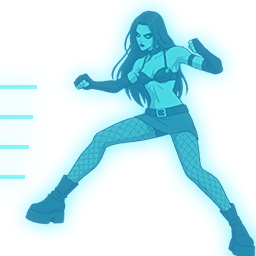
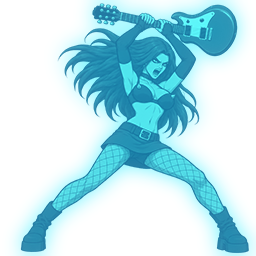
Sonso: nuevo dibujo mira a la derecha y espectrales regeneradas
- Se quita el ajuste "mira": "izquierda" (el dibujo nuevo mira a la derecha)
- Espectral y espectral de ataque regeneradas desde el arte nuevo
- El generador usa la pose de ataque del usuario para la espectral de ataque

Claude-Session: https://claude.ai/code/session_0146Z2twdAYFa7JBRbLJtDJs

diff --git a/tools/generar_placeholders.py b/tools/generar_placeholders.py
@@ -336,8 +336,13 @@ def main():
             # Arte final del usuario: las variantes provisionales salen de su dibujo
             normal = Image.open(ruta_normal).convert("RGBA").resize((256, 256), Image.LANCZOS)
         guardar(espectral(normal), "personajes", "pj_%s_espectral" % img_id)
-        pose = ataque(normal)
-        guardar(pose, "personajes", "pj_%s_normal_ataque" % img_id)
+        ruta_ataque = os.path.join(ASSETS, "personajes", "pj_%s_normal_ataque.png" % img_id)
+        if es_provisional(ruta_ataque):
+            pose = ataque(normal)
+            guardar(pose, "personajes", "pj_%s_normal_ataque" % img_id)
+        else:
+            # Pose de ataque dibujada por el usuario
+            pose = Image.open(ruta_ataque).convert("RGBA").resize((256, 256), Image.LANCZOS)
         guardar(espectral(pose), "personajes", "pj_%s_espectral_ataque" % img_id)
     esc = {
         "esc_centro_mando": ((30, 15, 50), (10, 5, 15), "sala"),
